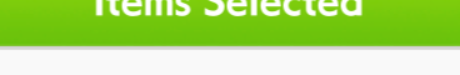
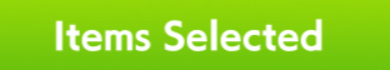
items_selected template: tighten + raise confidence to fix false matches
Bot was stuck on the Standby/See All Race Results screen because
LabelItemsSelected was matching the green Race 1 header band there. Two
issues compounded:

1. The template included a lot of empty green padding below the white
   "Items Selected" text - making it match generic green bands.
2. Default confidence (0.8) was too lenient for a template that's mostly
   uniform green.

Result: bot detected ITEMS_SELECTED_POPUP on the Standby screen, called
handleItemsSelected which tap-coords (770, 1370), landing on the Race 2
lineup card and going nowhere. 15 iter bailout.

Fixes:
- Recropped to 390x70 covering just the text region (was 460x90 with
  big green skirt below).
- Bumped template confidence to 0.9 in component declaration. The actual
  popup banner still matches at >0.95, so the popup detection stays
  robust while incidental green bands no longer pass the threshold.

diff --git a/android/app/src/main/java/com/steve1316/uma_android_automation/components/Label.kt b/android/app/src/main/java/com/steve1316/uma_android_automation/components/Label.kt
@@ -235,7 +235,7 @@ object LabelTeamTrials : ComponentInterface {
     override val template = Template("components/label/team_trials_header", region = Region.topHalf)
 }
 
-/** "Items Selected" header on the pre-match item-picker popup. */
+/** "Items Selected" header on the pre-match item-picker popup. Confidence raised to 0.9 to avoid false-matching the green Race-N header bands on the post-match Standby screen. */
 object LabelItemsSelected : ComponentInterface {
-    override val template = Template("components/label/items_selected", region = Region.middle)
+    override val template = Template("components/label/items_selected", region = Region.middle, confidence = 0.9)
 }
